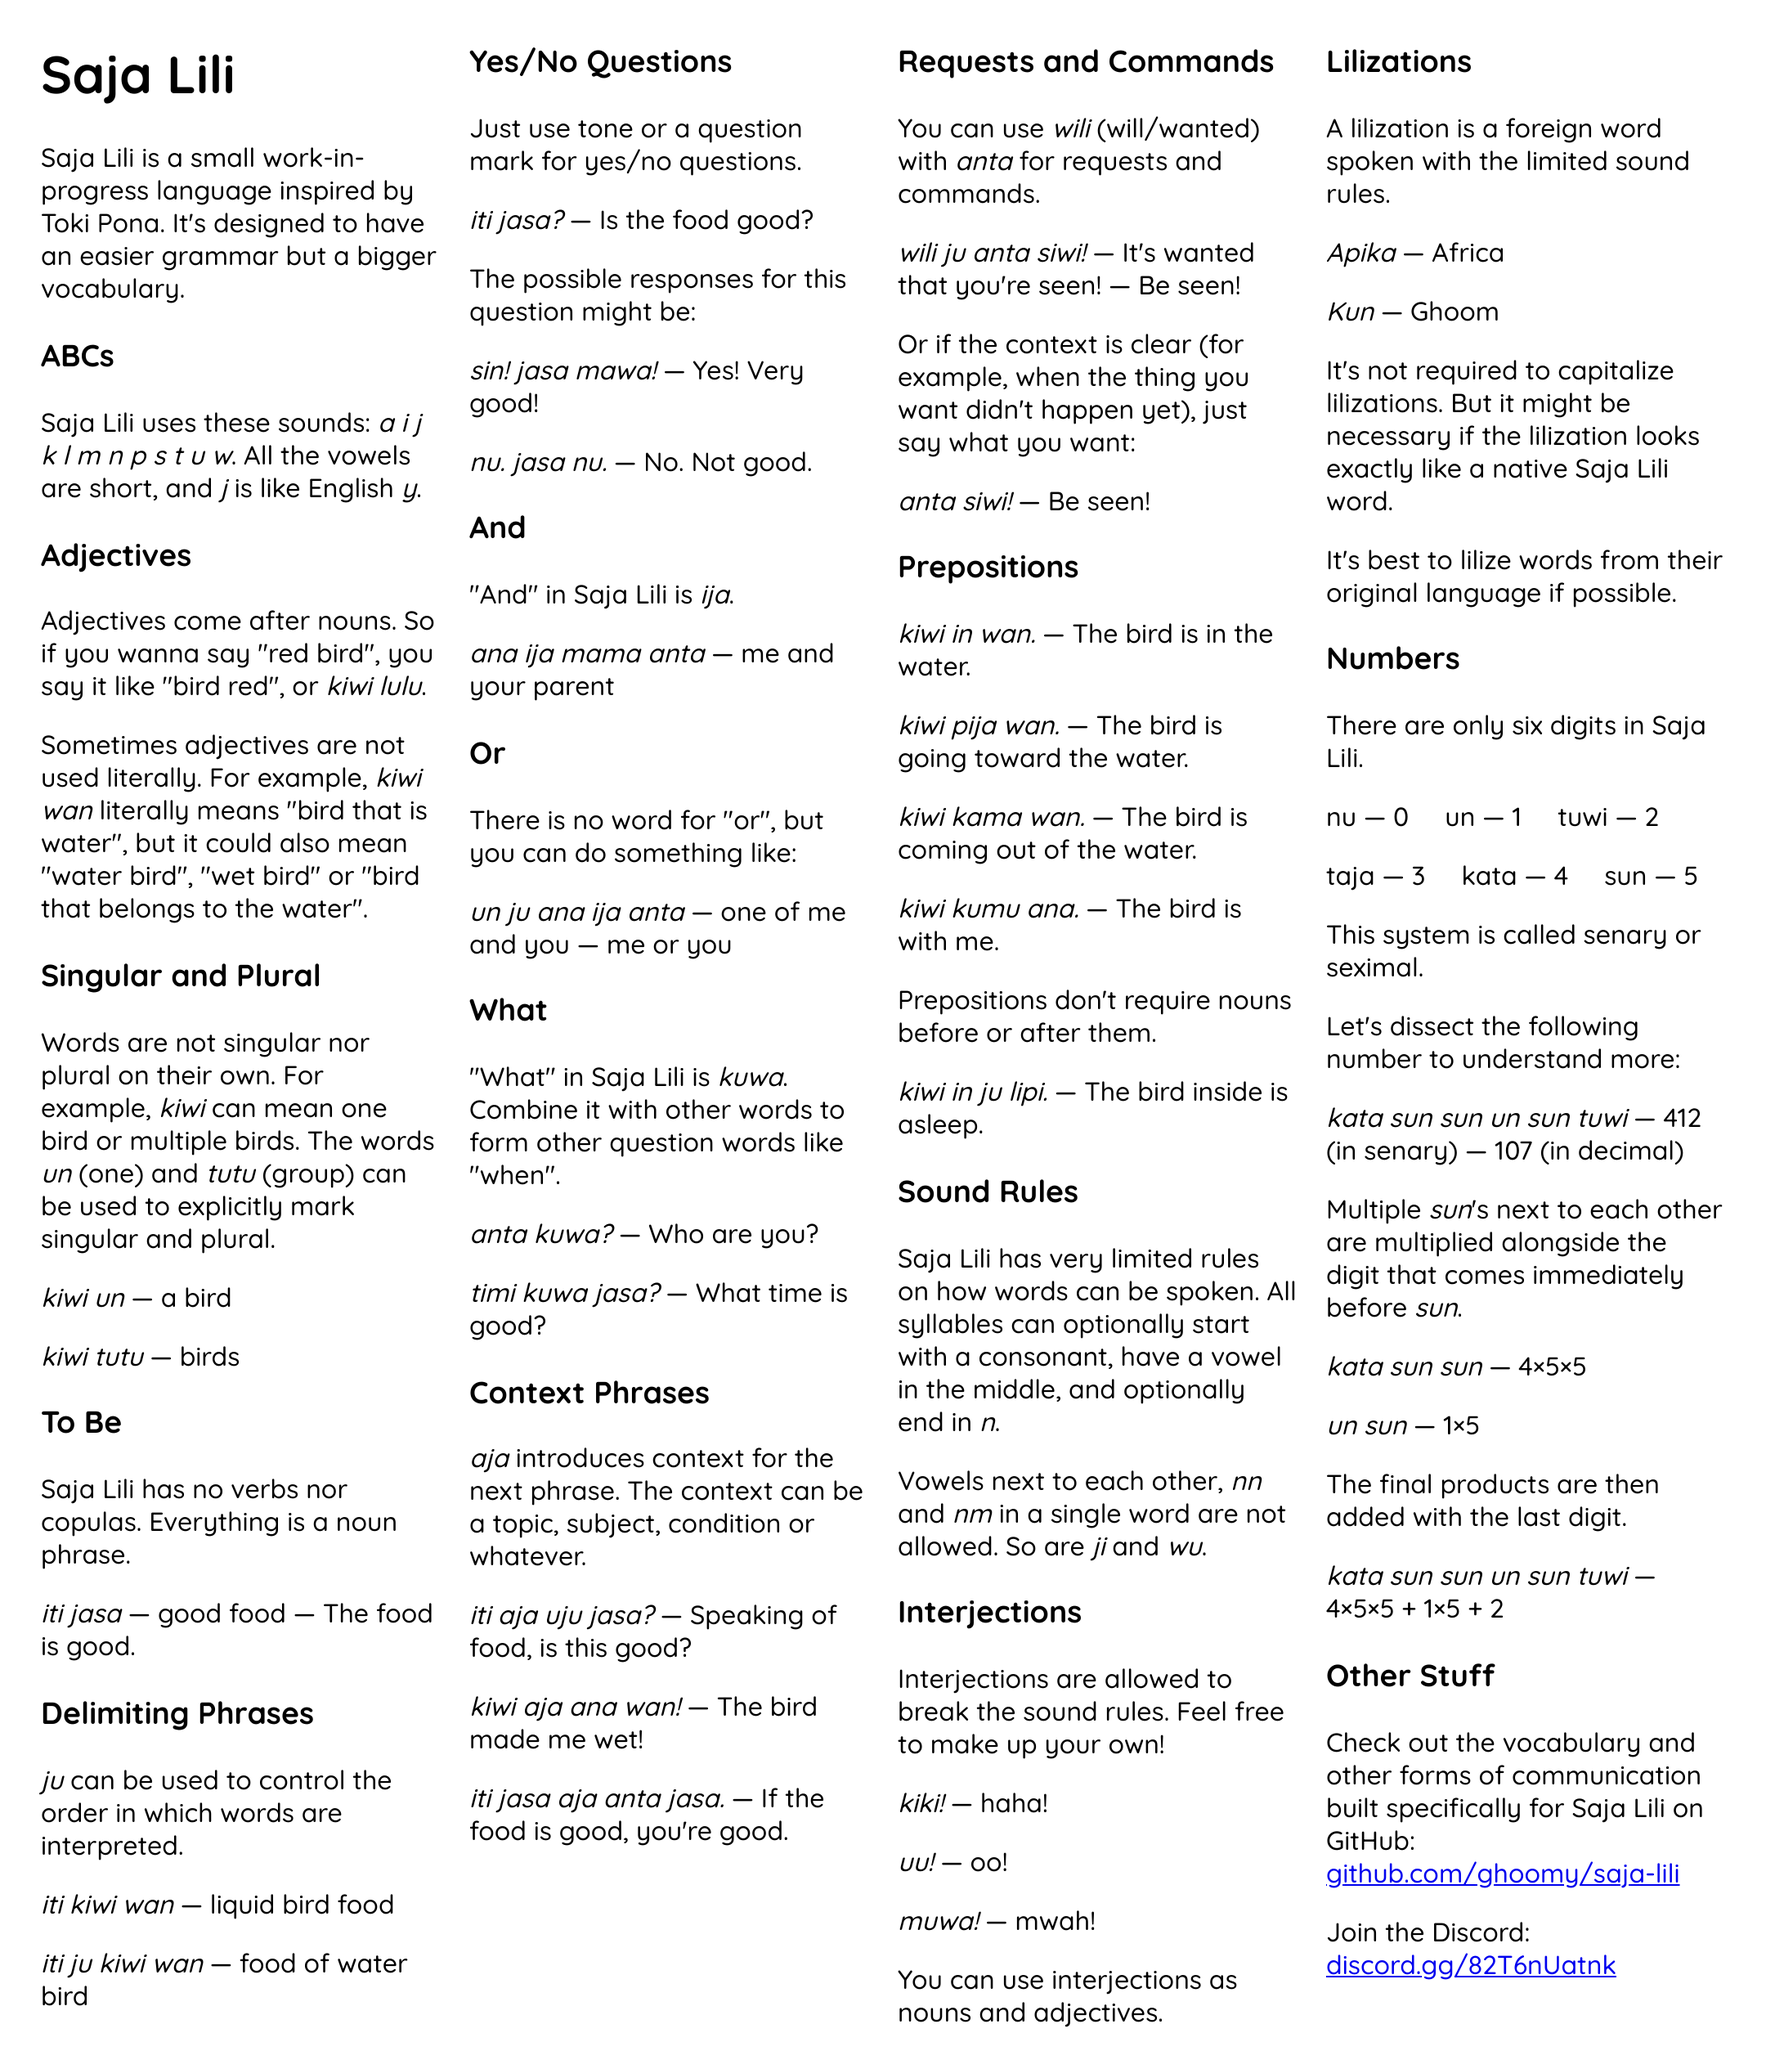
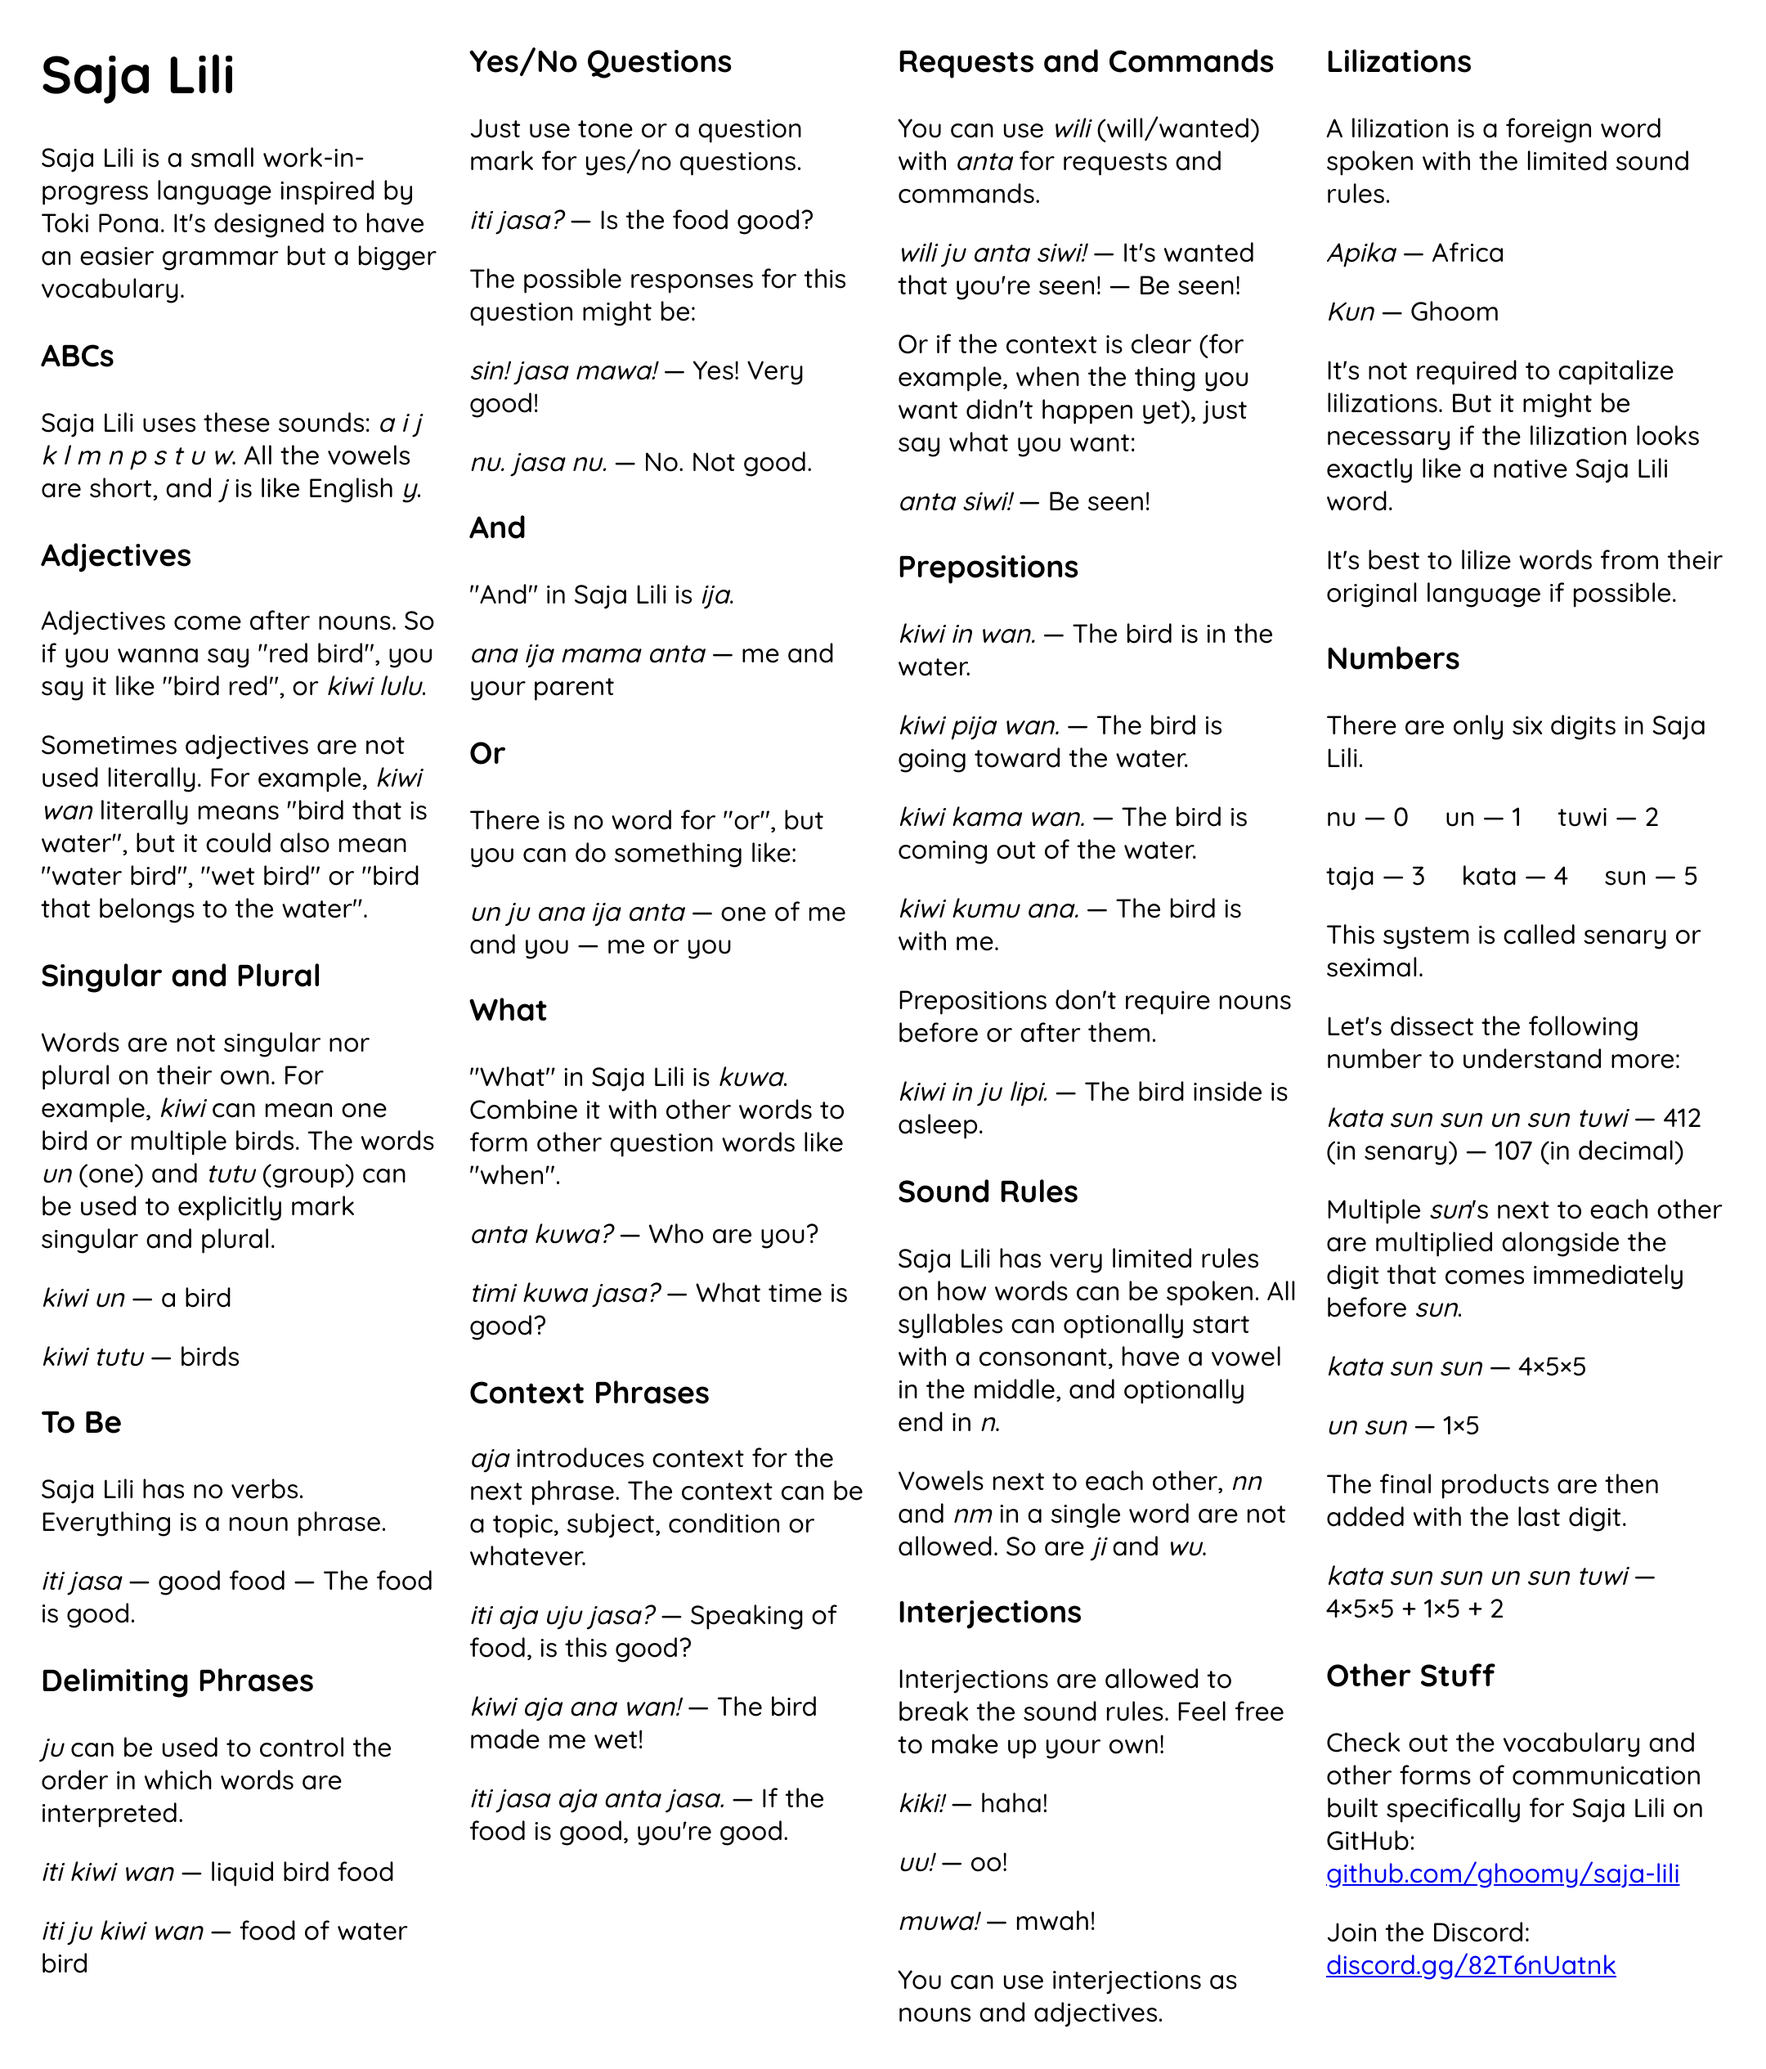
...

Changed region(s): [[0.031, 0.7182, 0.2481, 0.968]]

diff --git a/README.md b/README.md
@@ -36,7 +36,7 @@ Words are not singular nor plural on their own. For example, *kiwi* can mean one
 
 ### To Be
 
-Saja Lili has no verbs nor copulas. Everything is a noun phrase.
+Saja Lili has no verbs. Everything is a noun phrase.
 
 *iti jasa* — good food — The food is good.
 
